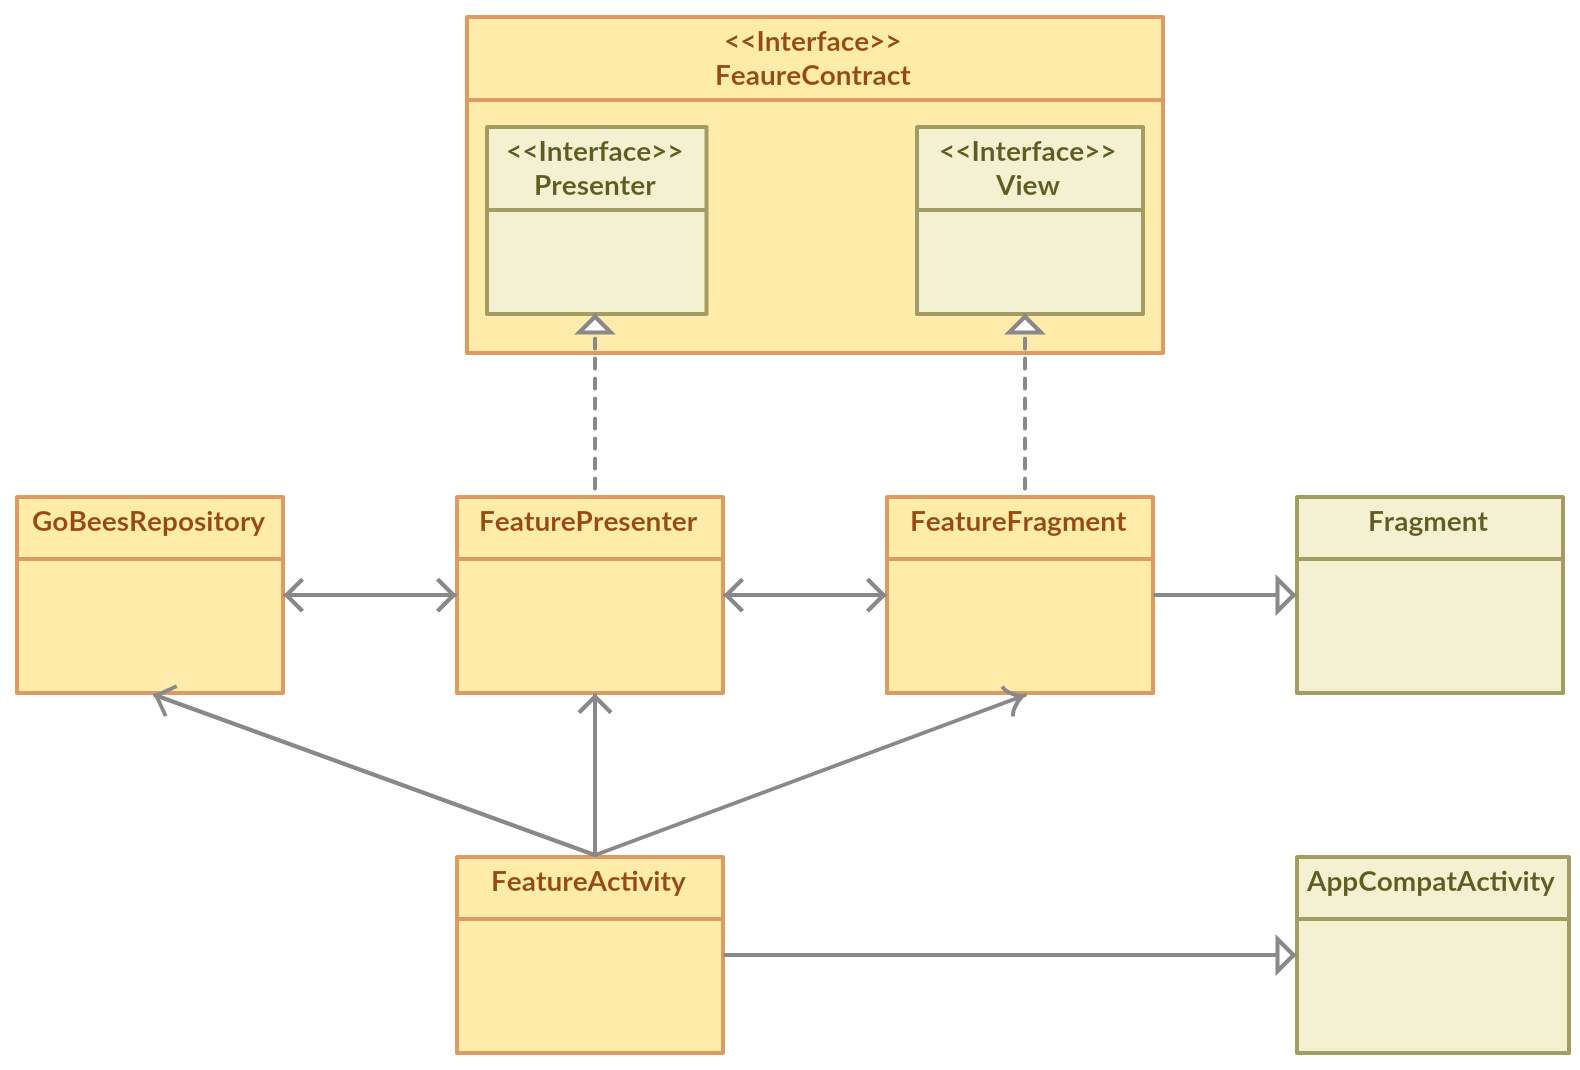
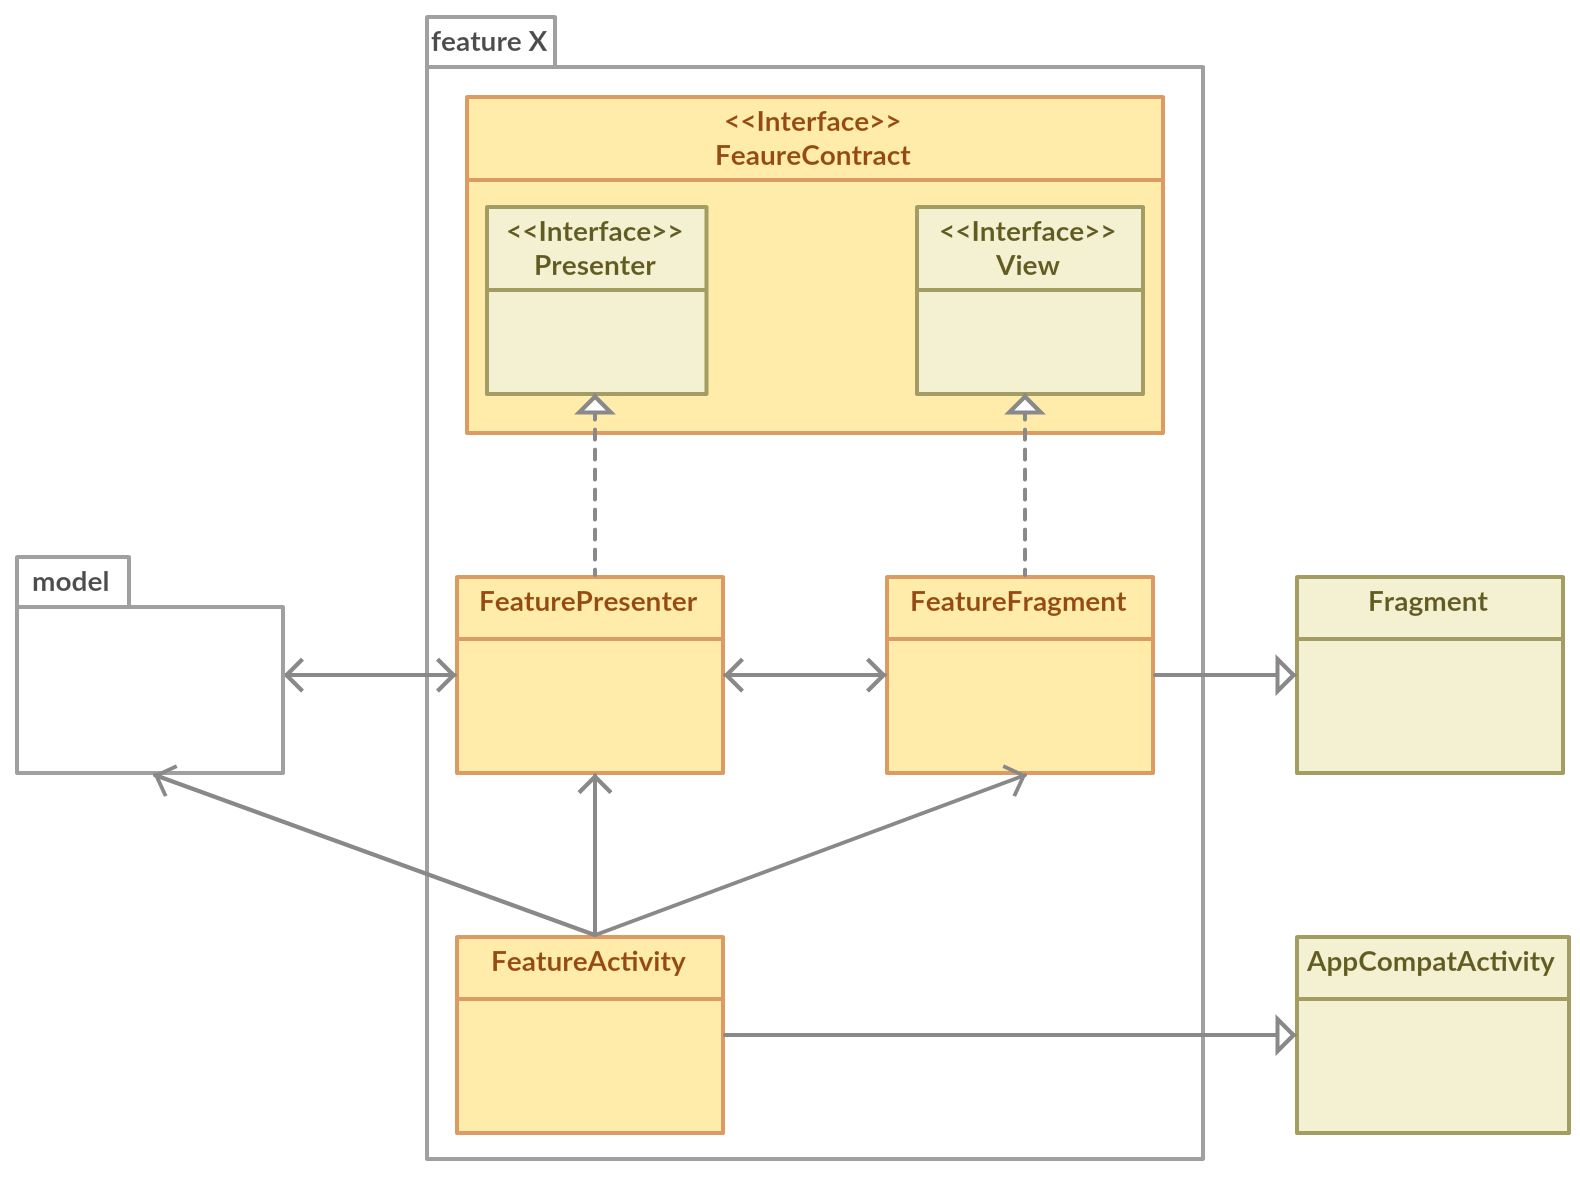
Improve Diseno Arquitectonico documentation #150

diff --git a/app/src/test/java/com/davidmiguel/gobees/monitoring/algorithm/AreaBeesCounterTest.java b/app/src/test/java/com/davidmiguel/gobees/monitoring/algorithm/AreaBeesCounterTest.java
@@ -42,12 +42,12 @@ import static junit.framework.Assert.assertTrue;
  * This relative error is asserted with a max. error threshold.
  */
 @SuppressLint("DefaultLocale")
-public class ContourBeesCounterTest extends OpenCvBaseTest {
+public class AreaBeesCounterTest extends OpenCvBaseTest {
 
     private static final String LOGGER_PROP = "src/test/res/log4j.properties";
     private static final double MAX_ERROR_THRESHOLD = 0.1;
     private static final int NUM_FRAMES_SKIP = 10;
-    private final Logger logger = LoggerFactory.getLogger(ContourBeesCounterTest.class);
+    private final Logger logger = LoggerFactory.getLogger(AreaBeesCounterTest.class);
     private DecimalFormat df;
 
     @BeforeClass
@@ -66,7 +66,7 @@ public class ContourBeesCounterTest extends OpenCvBaseTest {
     @Test
     public void case1() throws Exception {
         logger.debug("Case1:");
-        BeesCounter bc = ContourBeesCounter.getInstance();
+        BeesCounter bc = AreaBeesCounter.getInstance();
         bc.updateBlobSize(BeesCounter.BlobSize.NORMAL);
         double error = calculateRelativeError(bc, "c14");
         System.out.println("Error case1: " + df.format(error));
@@ -79,7 +79,7 @@ public class ContourBeesCounterTest extends OpenCvBaseTest {
     @Test
     public void case2() throws Exception {
         logger.debug("Case2:");
-        BeesCounter bc = ContourBeesCounter.getInstance();
+        BeesCounter bc = AreaBeesCounter.getInstance();
         bc.updateBlobSize(BeesCounter.BlobSize.SMALL);
         bc.updateMinArea(10.0);
         bc.updateMaxArea(800.0);
@@ -94,7 +94,7 @@ public class ContourBeesCounterTest extends OpenCvBaseTest {
     @Test
     public void case3() throws Exception {
         logger.debug("Case3:");
-        BeesCounter bc = ContourBeesCounter.getInstance();
+        BeesCounter bc = AreaBeesCounter.getInstance();
         bc.updateBlobSize(BeesCounter.BlobSize.BIG);
         bc.updateMinArea(30.0);
         bc.updateMaxArea(2000.0);

diff --git a/app/src/main/java/com/davidmiguel/gobees/monitoring/algorithm/AreaBeesCounter.java b/app/src/main/java/com/davidmiguel/gobees/monitoring/algorithm/AreaBeesCounter.java
@@ -31,10 +31,10 @@ import org.opencv.core.Mat;
 /**
  * Counts the number of bees based on the area of detected moving contours.
  */
-public class ContourBeesCounter implements BeesCounter {
+public class AreaBeesCounter implements BeesCounter {
 
     private static final String TAG = "ContourBeesCounter";
-    private static ContourBeesCounter INSTANCE;
+    private static AreaBeesCounter INSTANCE;
 
     private Blur blur;
     private BackgroundSubtractor bs;
@@ -47,16 +47,16 @@ public class ContourBeesCounter implements BeesCounter {
      * History is initialized to 10 and shadows threshold to 0.7.
      * minArea is initialized to 15 and maxArea to 800.
      */
-    private ContourBeesCounter() {
+    private AreaBeesCounter() {
         blur = new Blur();
         bs = new BackgroundSubtractor();
         morphology = new Morphology();
         cf = new ContoursFinder();
     }
 
-    public static ContourBeesCounter getInstance() {
+    public static AreaBeesCounter getInstance() {
         if (INSTANCE == null) {
-            INSTANCE = new ContourBeesCounter();
+            INSTANCE = new AreaBeesCounter();
         }
         return INSTANCE;
     }

diff --git a/app/src/main/java/com/davidmiguel/gobees/monitoring/MonitoringService.java b/app/src/main/java/com/davidmiguel/gobees/monitoring/MonitoringService.java
@@ -37,7 +37,7 @@ import com.davidmiguel.gobees.data.source.GoBeesDataSource;
 import com.davidmiguel.gobees.data.source.GoBeesDataSource.SaveRecordingCallback;
 import com.davidmiguel.gobees.data.source.repository.GoBeesRepository;
 import com.davidmiguel.gobees.monitoring.algorithm.BeesCounter;
-import com.davidmiguel.gobees.monitoring.algorithm.ContourBeesCounter;
+import com.davidmiguel.gobees.monitoring.algorithm.AreaBeesCounter;
 import com.davidmiguel.gobees.monitoring.camera.AndroidCamera;
 import com.davidmiguel.gobees.monitoring.camera.AndroidCameraImpl;
 import com.davidmiguel.gobees.monitoring.camera.AndroidCameraListener;
@@ -268,7 +268,7 @@ public class MonitoringService extends Service implements AndroidCameraListener 
      * Config bee counter with settings.
      */
     private void configBeeCounter() {
-        bc = ContourBeesCounter.getInstance();
+        bc = AreaBeesCounter.getInstance();
         bc.updateBlobSize(monitoringSettings.getBlobSize());
         bc.updateMinArea(monitoringSettings.getMinArea());
         bc.updateMaxArea(monitoringSettings.getMaxArea());

diff --git a/app/src/test/java/com/davidmiguel/gobees/utils/RainValueFormatterTest.java b/app/src/test/java/com/davidmiguel/gobees/utils/RainValueFormatterTest.java
@@ -19,6 +19,8 @@ package com.davidmiguel.gobees.utils;
 
 import org.junit.Test;
 
+import java.util.Locale;
+
 import static org.junit.Assert.*;
 
 /**
@@ -29,8 +31,8 @@ public class RainValueFormatterTest {
     public void getFormattedValue() throws Exception {
         RainValueFormatter rainValueFormatter = new RainValueFormatter(RainValueFormatter.Unit.MM);
         String res = rainValueFormatter.getFormattedValue(10, null);
-        assertEquals("10,0mm", res);
+        assertEquals(String.format(Locale.getDefault(), "%1.1f", 10.0) + "mm", res);
         res = rainValueFormatter.getFormattedValue(10, null, -1, null);
-        assertEquals("10,0mm", res);
+        assertEquals(String.format(Locale.getDefault(), "%1.1f", 10.0) + "mm", res);
     }
 }

diff --git a/app/src/main/java/com/davidmiguel/gobees/monitoring/MonitoringPresenter.java b/app/src/main/java/com/davidmiguel/gobees/monitoring/MonitoringPresenter.java
@@ -19,7 +19,7 @@
 package com.davidmiguel.gobees.monitoring;
 
 import com.davidmiguel.gobees.monitoring.algorithm.BeesCounter;
-import com.davidmiguel.gobees.monitoring.algorithm.ContourBeesCounter;
+import com.davidmiguel.gobees.monitoring.algorithm.AreaBeesCounter;
 
 import org.opencv.android.CameraBridgeViewBase.CvCameraViewFrame;
 import org.opencv.android.CameraBridgeViewBase.CvCameraViewListener2;
@@ -132,7 +132,7 @@ class MonitoringPresenter implements MonitoringContract.Presenter, CvCameraViewL
     @Override
     public void onCameraViewStarted(int width, int height) {
         processedFrame = new Mat();
-        bc = ContourBeesCounter.getInstance();
+        bc = AreaBeesCounter.getInstance();
         settingsView.initSettings();
     }
 

diff --git a/docs/rst/anexos/C_Diseno.rst b/docs/rst/anexos/C_Diseno.rst
@@ -88,15 +88,15 @@ MVP divide la aplicación en las siguientes capas:[pattern:mvp]_
 
 |mvp|
 
-.. |relational| image:: ../../img/mvp.png
+.. |mvp| image:: ../../img/mvp.png
 
 Existen varias variantes sobre cómo implementar MVP en Android. En
 nuestro caso, se ha seguido la expuesta Google en Android Architecture
 Blueprints [pattern:android_architecture]_. En
-ellas se realizan las siguientes consideraciones:
+ella se realizan las siguientes consideraciones:
 
 -  Se utilizan las *Activity* como controladores globales que se
-   encargan de crear y conectar las vistas y los *presenters*.
+   encargan de crear y conectar las vistas con los *presenters*.
 
 -  Se utilizan los *Fragment* como vistas ya que proporcionan numerosas
    ventajas cuando se trabaja con múltiples vistas.
@@ -198,6 +198,37 @@ funcionalidades:
 
 .. |packagesfeaturesdiagram| image:: ../../img/packages-features-diagram.png
 
+-  **About**: contiene la funcionalidad de “Acerca de” de la aplicación.
+   Donde se muestra el autor, licencia, versión de la *app*, sitio web,
+   historial de cambio y todas las dependencias junto con sus licencias.
+
+-  **Addeditapiary**: permite añadir o editar colmenares.
+
+-  **Addedithive**: permite añadir o editar colmenas.
+
+-  **Apiaries**: permite listar los colmenares y gestionarlos.
+
+-  **Apiary**: permite listar las colmenas de un colmenar, gestionarlas
+   y mostrar la información relativa al colmenar.
+
+-  **Help**: muestra la ayuda de la aplicación.
+
+-  **Hive**: permite listar las grabaciones de una colmena, gestionarlas
+   y mostrar la información relativa a la colmena.
+
+-  **Monitoring**: agrupa toda la funcionalidad de monitorización de la
+   actividad de vuelo de una colmena, desde la configuración hasta la
+   ejecución del algoritmo.
+
+-  **Recording**: permite visualizar los detalles de una determinada
+   grabación.
+
+-  **Settings**: permite configurar los distintos parámetros de la
+   aplicación.
+
+-  **Splash**: muestra una pantalla de inicio mientras la aplicación
+   carga en memoria los recursos necesarios.
+
 Diseño de clases
 ~~~~~~~~~~~~~~~~
 
@@ -234,8 +265,33 @@ componentes de una determinada característica es el siguiente:
 
 .. |generalclassdiagram| image:: ../../img/general-class-diagram.png
 
-En la parte del acceso a datos se poseen dos paquetes como se ha visto
+El único paquete que se diferencia de la estructura expuesta es el
+paquete *monitoring.* Este integra a su vez toda la lógica de acceso a
+la cámara y todas las clases relacionadas con el algoritmo de conteo.
+
+|monitoringpackage|
+
+.. |monitoringpackage| image:: ../../img/monitoring-package.png
+
+El diagrama de clases del paquete cámara es el siguiente:
+
+|cameraclassdiagram|
+
+.. |cameraclassdiagram| image:: ../../img/camera-class-diagram.png
+
+El diagrama de las clases que implementan el algoritmo de conteo es el
+siguiente:
+
+|algorithmclassdiagram|
+
+.. |algorithmclassdiagram| image:: ../../img/algorithm-class-diagram.png
+
+En la parte del acceso a datos, se poseen dos paquetes como se ha visto
 en el apartado anterior.
+
+|datapackage|
+
+.. |datapackage| image:: ../../img/data-package.png
 
 El paquete *model* contiene todas las clases de modelo que se mapean con
 la base de datos.
@@ -255,6 +311,9 @@ diagrama de clases es el siguiente:
 
 .. |sourceclassdiagram| image:: ../../img/source-class-diagram.png
 
+Para conocer a mayor detalle las funciones de cada clase se puede
+consultar la documentación JavaDoc de la aplicación.
+
 .. References
 
 .. [pattern:mvp]
@@ -265,4 +324,6 @@ diagrama de clases es el siguiente:
    https://github.com/googlesamples/android-architecture
 .. [wiki:injection]
    https://en.wikipedia.org/wiki/Dependency_injection 
+.. [design:material]
+   https://material.io/guidelines/
    
